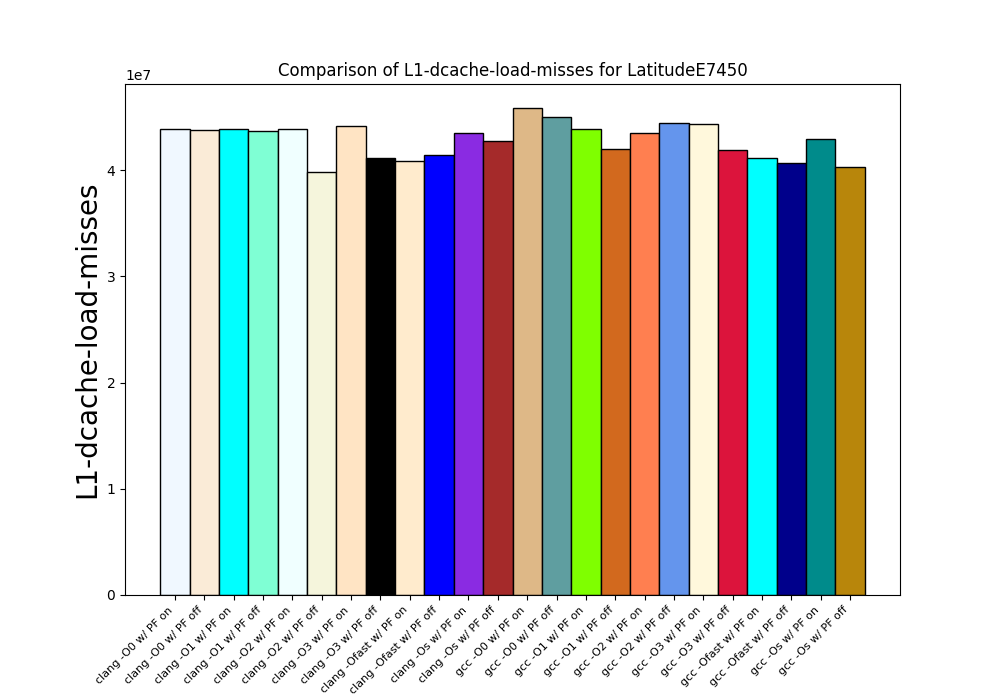
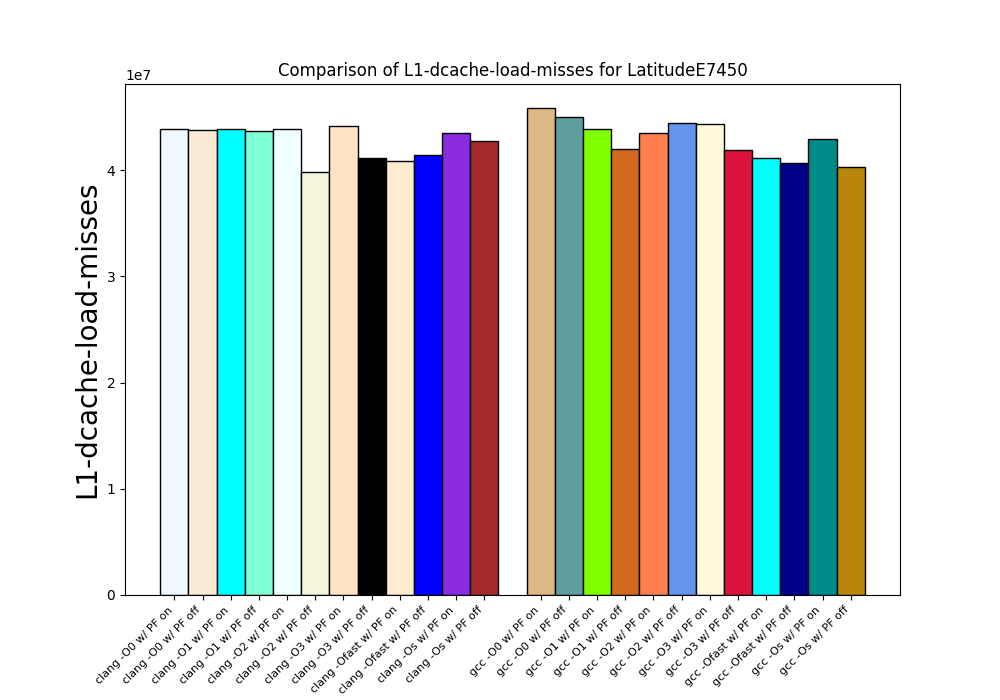
Added current analysis.py version and some new plots

Changed region(s): [[0.124, 0.15, 0.837, 0.99]]

diff --git a/analysis.py b/analysis.py
@@ -14,6 +14,7 @@ CPUs = [
         "ThinkPadX270", "ThinkPadX61Tablet", "ThinkPadX120e",
         "Latitude7480", "LatitudeE6230", "LatitudeE6400",
         "LatitudeE6500", "LatitudeE7450",
+        "ThinkPadT470", "Latitude7280", "XPS_15_9560",
         ]
 
 #CPU = ["ThinkPadX270"] #, "ThinkPadX61Tablet"]
@@ -21,7 +22,9 @@ CPUs = [
 #CPU = [CPUs[2], CPUs[5], CPUs[6]]
 #CPU = [CPUs[4]]
 #CPU = [CPUs[7]]
-CPU = [CPUs[2], CPUs[7]]
+#CPU = [CPUs[2], CPUs[7]]
+CPU = [CPUs[8], CPUs[10]]
+#CPU = CPUs[8:]
 
 def read_data(fname):
     run = {}
@@ -96,7 +99,7 @@ def generate_plots(data, x_cat, y_cat, machines, test_name, pf = True, flags = N
         for c in data[m]:
             fs = (data[m][c] if flags == None else flags)
             for f in fs:
-                pfs = (data[m][c][f] if pf else ["False"])
+                pfs = (data[m][c][f] if pf else [False])
                 for p in pfs:
                     # [:-1] --> exclude the multi from the data to plot
                     to_plot = data[m][c][f][p] #[:-1]
@@ -149,7 +152,7 @@ def generate_bar_plots(data, cat, machines, test_name, pf = True, flags = None, 
     #colors = list(mcolors.TABLEAU_COLORS)
     colors = list(mcolors.CSS4_COLORS)
     
-    tot_space = 10
+    tot_space = 15
     plt.figure(figsize = (tot_space,7))
     space_per_m = tot_space / (2*len(machines))
     locs = [2*i*space_per_m for i in range(len(machines))]
@@ -256,28 +259,36 @@ def main():
     root = os.getcwd()
     #machine = input("Enter the machine to get data for: ")
     machine = CPU
+    add_new = True
     #x_cat = 'L1-dcache-loads'
     x_cat = 'cycles'
     y_cats = [
              'L1-dcache-loads', 'L1-dcache-load-misses', 
-             'context-switches', 'L1-icache-load-misses',
-             'page-faults', 'cpu-migrations',
+             #'context-switches',
+             'L1-icache-load-misses',
+             #'page-faults', 'cpu-migrations',
              'instructions', 'branch-misses', 'branches',
              'dTLB-loads', 'dTLB-load-misses',
              'iTLB-loads', 'iTLB-load-misses',
              'LLC-loads', 'LLC-load-misses',
              ]
+    if add_new:
+        y_cats += [
+             'mem_load_retired.l1_miss', 'mem_load_retired.l2_miss',
+             'mem_load_retired.l3_miss', 'l2_rqsts.all_pf',
+             'l2_rqsts.pf_hit', 'l2_rqsts.references',
+             ]
 
     #test_foldr = input("Enter the folder containing all test data: ")
-    test_foldr = "11-15_FFT"
+    test_foldr = "11-XX_FFT"
 
     data = dict()
 
     #for machine in CPU:
     #    data = generate_data(data, machine, test_foldr)
 
-    test_foldr1 = "11-15_FFT"
-    test_foldr2 = "11-20_FFT"
+    test_foldr1 = "11-21_FFT"
+    test_foldr2 = "11-22_FFT"
     for machine in CPU:
         try:
             data = generate_data(data, machine, test_foldr1)
@@ -294,11 +305,18 @@ def main():
     #for y_cat in y_cats:
     #    generate_bar_plots(data, y_cat, CPU, test_foldr, legend_on = False)
 
-    test_name = "11-XX-FFT"
+    #test_name = "11-XX-FFT"
 
-    generate_bar_plots(data, 'instructions', CPU, test_name, legend_on = False, pf = False)
-    #generate_bar_plots(data, 'L1-dcache-loads', CPU, test_name, legend_on = False)
-    #generate_bar_plots(data, 'L1-dcache-load-misses', CPU, test_name, legend_on = False)
+    #generate_bar_plots(data, 'instructions', CPU, test_name, legend_on = False, pf = False)
+    generate_bar_plots(data, 'L1-dcache-loads', CPU, test_foldr, legend_on = False)
+    generate_bar_plots(data, 'L1-dcache-load-misses', CPU, test_foldr, legend_on = False)
+    generate_bar_plots(data, 'mem_load_retired.l1_miss', CPU, test_foldr, legend_on = False)
+
+    generate_plots(data, 'l2_rqsts.references', 'l2_rqsts.all_pf', [CPU[0]], test_foldr)
+
+    #generate_plots(data, 'branches', 'branch-misses', [CPU[1]], test_foldr, pf = False)
+    #generate_plots(data, 'iTLB-load-misses', 'l2_rqsts.pf_hit', [CPU[2]], test_foldr, pf = True)
+
 
 if __name__ == "__main__":
     main()
